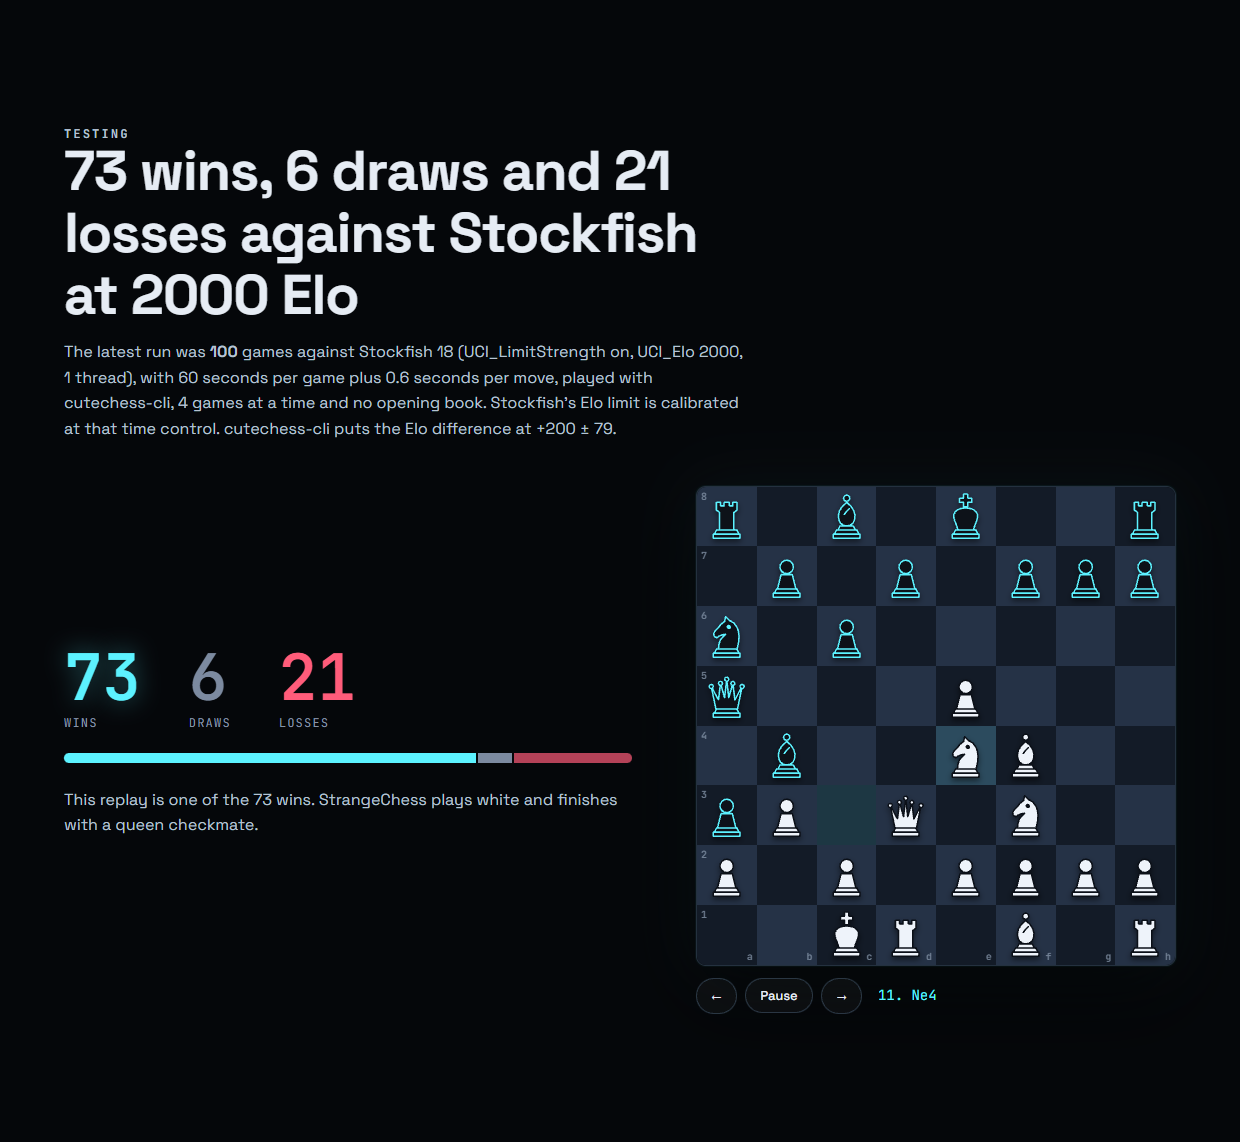
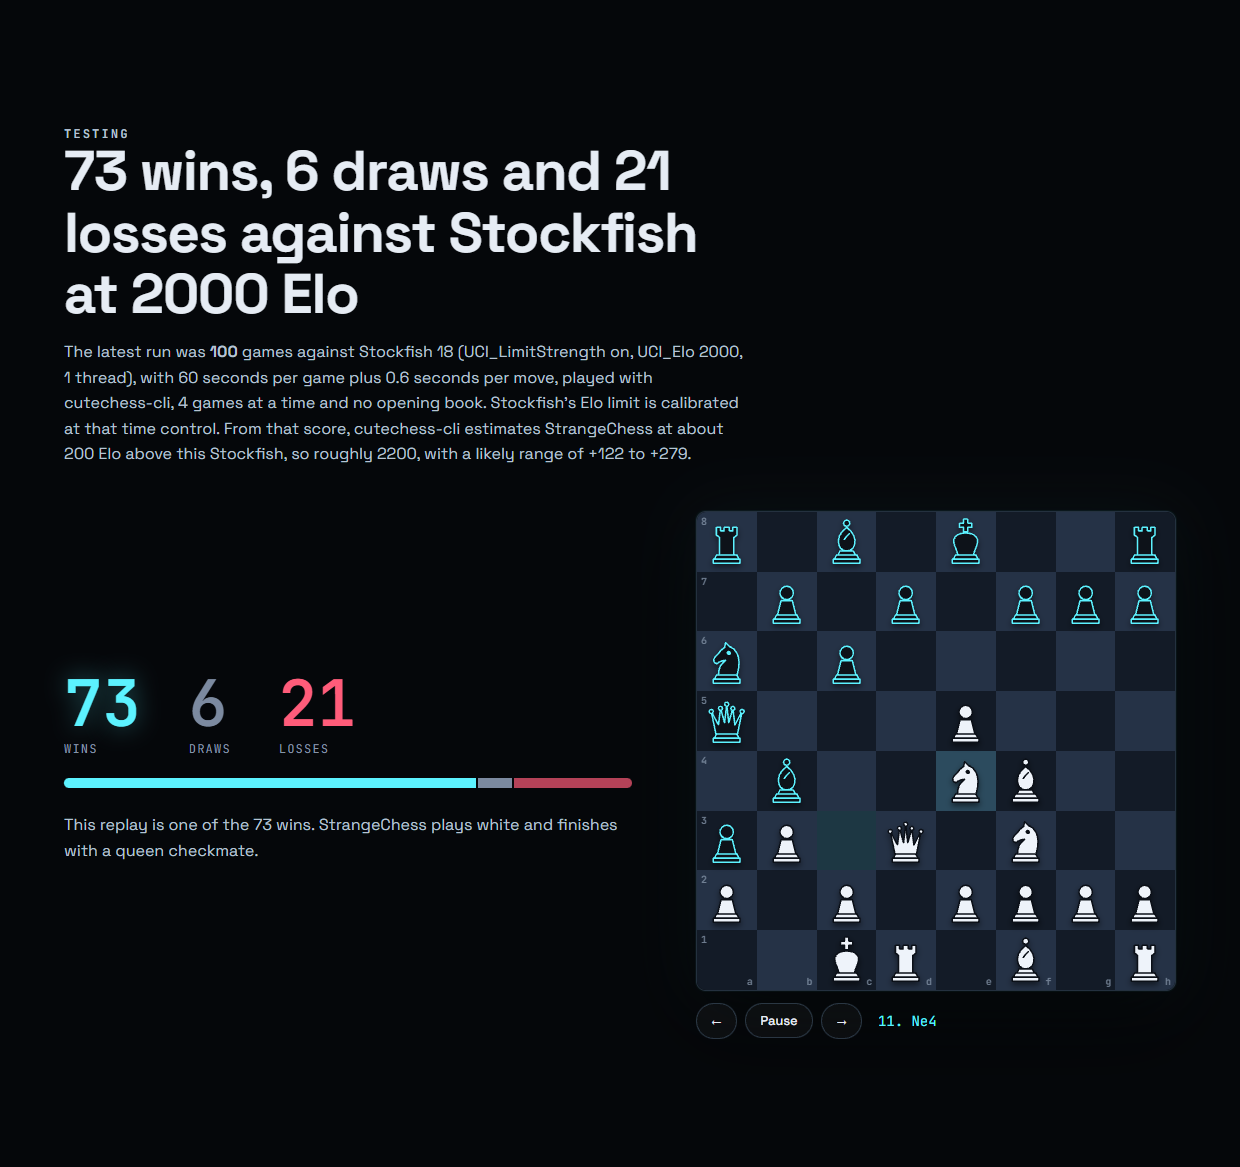
README: explain the Elo estimate, refresh screenshots

Changed region(s): [[0.5516, 0.3984, 0.95, 0.8888], [0.0306, 0.0919, 0.6129, 0.3984], [0.0306, 0.5517, 0.521, 0.7356]]

diff --git a/README.md b/README.md
@@ -39,7 +39,7 @@ Against Stockfish 18 limited to 2000 Elo (`UCI_LimitStrength`, `UCI_Elo 2000`, 1
 | --- | --- | --- | --- |
 | 100 | 73 | 6 | 21 |
 
-cutechess-cli puts the Elo difference at **+200 ± 79**. As White it scored 41 wins, 3 draws and 6 losses; as Black, 32 wins, 3 draws and 15 losses.
+From that score, cutechess-cli estimates StrangeChess at about **200 Elo above** this Stockfish (roughly 2200), with a likely range of +122 to +279. As White it scored 41 wins, 3 draws and 6 losses; as Black, 32 wins, 3 draws and 15 losses.
 
 ## Performance
 
